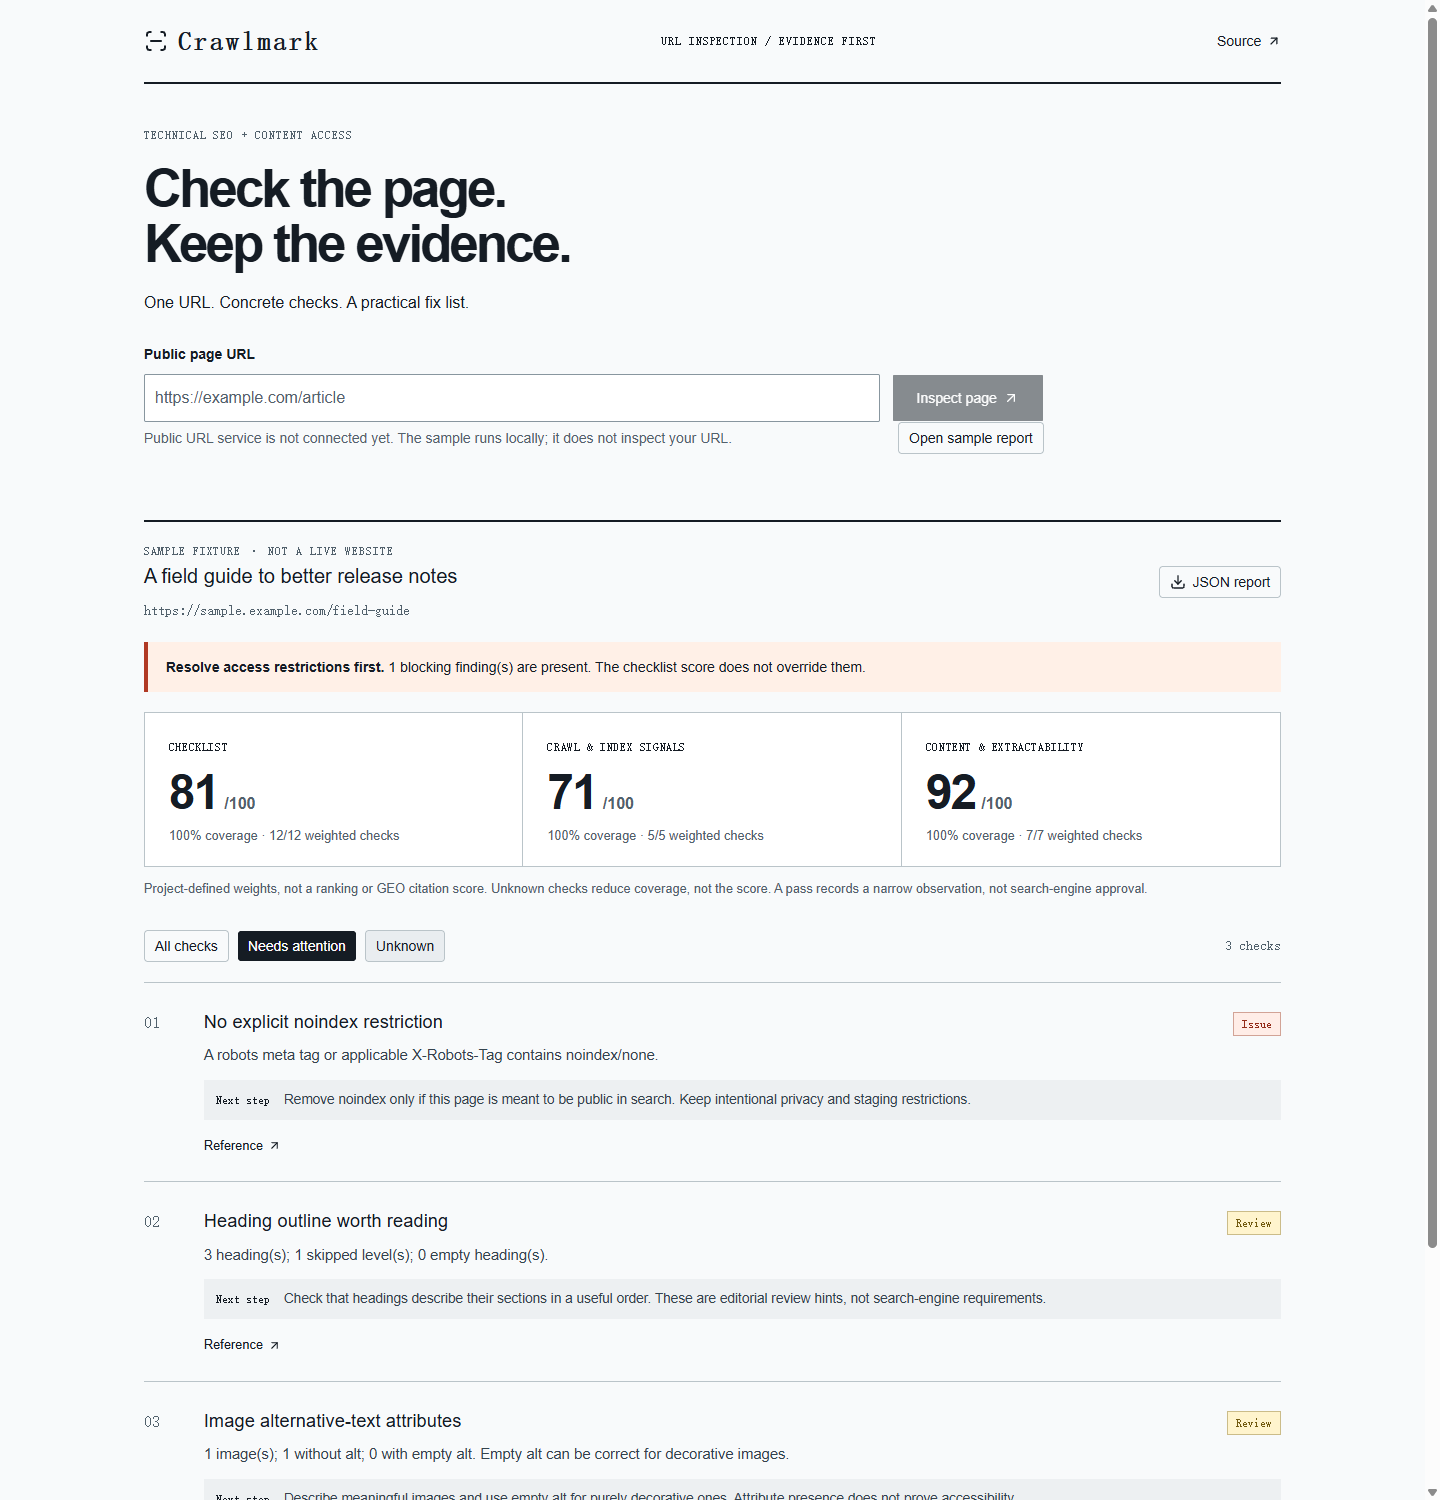
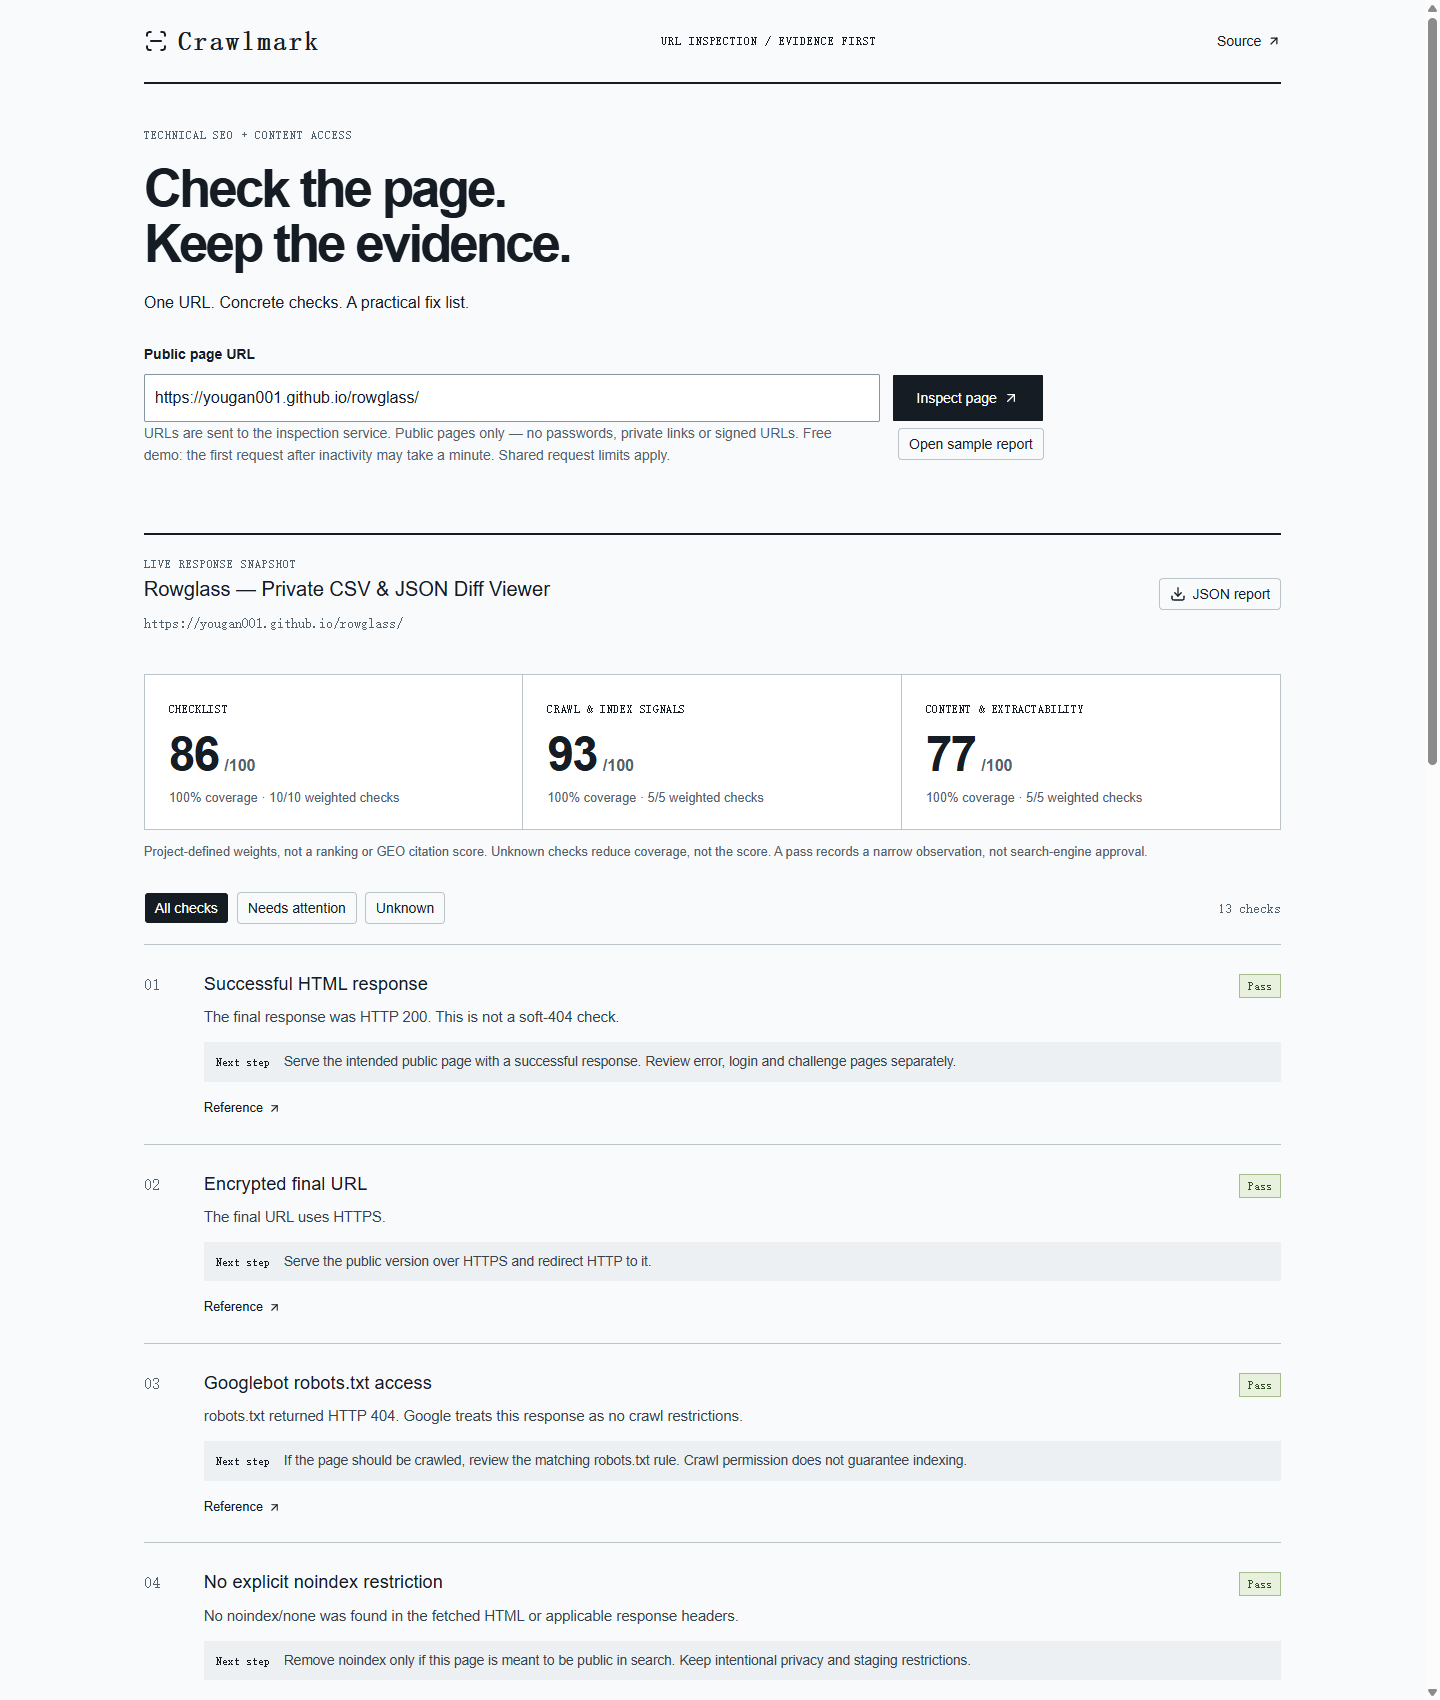
Document live deployment and refresh verified screenshots

diff --git a/docs/testing.md b/docs/testing.md
@@ -1,6 +1,6 @@
 # Verification
 
-Run `npm ci` then `npm test` on Node 22.13+. Tests need no external website or credentials. The suite has 37 tests for parsing, robots, scoring, transport policy, streamed bounds, concurrency, sample, worker and loopback API. External DNS and outbound response streams are controlled in transport tests; the API and worker run for real.
+Run `npm ci` then `npm test` on Node 22.13+. Tests need no external website or credentials. The suite has 43 tests for parsing, robots, scoring, transport policy, streamed bounds, concurrency, sample, worker, browser-client errors and loopback API. External DNS and outbound response streams are controlled in transport tests; the API and worker run for real.
 
 Request-body regression tests use real loopback connections with a shortened operation deadline. Two continuously trickling bodies must close and free both inspection slots, for both Content-Length and chunked uploads; a subsequent normal request must succeed. Separate cases cover client disconnection during upload and a structured timeout after a complete body. The inspection function is controlled, so these tests make no outbound requests.
 
@@ -15,6 +15,14 @@ Additional browser checks:
 - A genuine 390px viewport has a 390px document width, without horizontal overflow. Desktop and mobile PNGs in `docs/images/` were captured and inspected from the real local page.
 - Lint, TypeScript and the ordinary Windows static build pass. The Windows Pages-mode build exited 1 during client output without a diagnostic; it is not considered successful. Linux Pages CI is the release gate for the prefixed build.
 
-Public API hosting is not configured yet. The static preview explicitly labels its sample and disables live inspection without an endpoint. Passing tests do not replace network isolation or deployment review.
+The public demo now connects to an HTTPS Node API on Render. The static build still disables live inspection when no endpoint is configured, and its local sample remains explicitly labeled. Passing tests do not replace network isolation or deployment review.
 
-Public deployment verified on 2026-09-05: Linux inspection tests and Pages build/deployment passed for `144557b`. The public `/crawlmark/` page loads its sample worker, reports score 81 with a noindex blocker, and filters to three attention findings. Canonical and favicon paths use the correct project prefix. Screenshots were then refreshed from this public preview. The real-URL control is visibly disabled with an explanation while no hosted API is configured.
+Initial sample-only deployment was verified on 2026-09-05 at `144557b`: the public `/crawlmark/` page loaded its sample worker, reported score 81 with a noindex blocker, and filtered to three attention findings. Canonical and favicon paths used the correct project prefix.
+
+Live deployment was verified later the same day at frontend `484be37`, using the Node backend at `4b8b397`. GitHub tests, lint, typecheck, Pages build and deployment passed. The public URL form fetched `https://yougan001.github.io/rowglass/` through Render and displayed its actual title, a live-response label, 13 findings and score 86. One warm browser request took about 4.7 seconds; this is not a performance guarantee. Direct cross-origin health and inspection requests also succeeded, and a loopback target returned `BLOCKED_ADDRESS`.
+
+The desktop and 390px mobile screenshots now show that live report. The mobile document width equals the 390px viewport. Needs-attention filtering reduces the visible list to three findings; the actual downloaded JSON still contains all 13 checks, the live URL, title and score 86.
+
+The deployed form also rejected a loopback target with HTTP 400 and a readable private-address message, with no stale report. An earlier attempt encountered a transient network failure and displayed the retry message; the subsequent health request succeeded. Cancelling a real submission triggered `AbortError`, restored the controls and kept the cancellation message without an old report reappearing.
+
+Client regression tests cover startup HTML instead of JSON, malformed responses, network failures, cancellation and rate limits without automatic POST retries. A full idle-to-cold-start timing measurement has not been performed; startup behavior is described using the hosting provider's documented limits, not a claimed benchmark.

diff --git a/docs/deployment.md b/docs/deployment.md
@@ -1,0 +1,40 @@
+# Hosting the inspection service
+
+The public demo uses GitHub Pages for the interface and a Render Node web service for URL inspection. The static page does not fetch arbitrary sites itself, and no third-party CORS proxy is involved.
+
+## Render setup
+
+Create a Web Service from this public repository. A public-repository connection does not require access to other GitHub repositories. Use:
+
+| Setting | Value |
+| --- | --- |
+| Runtime | Node |
+| Build command | `npm ci --ignore-scripts && npm test` |
+| Start command | `ALLOWED_HOSTS="$RENDER_EXTERNAL_HOSTNAME" node server/index.mjs` |
+| Health check | `/health` |
+| `NODE_VERSION` | `22.23.2` |
+| `HOST` | `0.0.0.0` |
+| `ALLOWED_ORIGINS` | Your frontend origin, such as `https://yougan001.github.io` |
+
+The app uses Render's `PORT` and explicitly allows its generated hostname. Keep the DNS checks, address pinning, TLS verification and body/time limits intact. Do not add credentials, database access or private services to the demo environment. Read [security.md](security.md) before exposing any self-hosted instance.
+
+For a public-repository connection, verify the service's update behavior instead of assuming that a GitHub push deploys the API. The Render dashboard offers **Manual Deploy → Deploy latest commit**. Check the deployed commit and health before connecting the frontend.
+
+## GitHub Pages setup
+
+Set these repository Actions variables, then run the included Pages workflow:
+
+| Variable | Value |
+| --- | --- |
+| `VITE_INSPECTION_API` | Full HTTPS endpoint, ending in `/api/inspect` |
+| `VITE_INSPECTION_DEMO` | `true` for the free demo's startup notice and 90-second browser wait |
+
+These are public build settings, not secrets. Never put an API credential in a `VITE_` variable. Without an endpoint the page disables URL inspection and keeps its local sample available. The backend operation remains limited to 25 seconds; the longer browser wait allows for hosting startup before the request reaches the app.
+
+## Free demo limits
+
+The current demo runs on Render's Free compute plan in Singapore. It is a demonstration, not an always-on production service. Render can put it to sleep after inactivity; its [free-instance documentation](https://render.com/docs/free) describes startup delays, resource limits and traffic restrictions. No keep-alive job is configured.
+
+The app allows two concurrent inspections, 20 requests per minute per process, and six requests per ten minutes per directly connected IP. Behind Render's proxy, multiple visitors may share that last allowance. The demo deliberately does not trust client-supplied forwarding headers to increase capacity. The interface displays a shared-limit notice; wait when it returns 429, or self-host for sustained use.
+
+The application stores no report history. Submitted URLs and reports still pass through the hosting network, which can have its own logs. Submit only public, unsigned URLs. HTTPS and application validation do not replace network isolation or a production security review.

diff --git a/README.md b/README.md
@@ -2,11 +2,11 @@
 
 A small URL inspection service for technical SEO and content-access reviews. Get evidence, a transparent checklist score and a fix list from one public page — without pretending to know its ranking or citation probability.
 
-**Current stage:** the engine, Node API and browser interface are available. The [Pages preview](https://yougan001.github.io/crawlmark/) runs an explicitly labeled sample. A public hosted API is not connected yet; real URL inspection works with the local/self-hosted API. GitHub Pages cannot run the URL-fetching backend.
+**[Try the live demo](https://yougan001.github.io/crawlmark/)** — enter a public URL for a real inspection, or open the local sample. The interface is hosted on GitHub Pages; a separate Node service performs the inspection. The free demo can take about a minute to wake up and has shared request limits. For sustained use, run your own instance.
 
-![Crawlmark sample report with a noindex blocker and concrete review steps](docs/images/workspace.png)
+![Crawlmark inspecting a public Rowglass page and showing evidence-backed findings](docs/images/workspace.png)
 
-The screenshot is from the public Pages preview. The sample is evaluated by the same report engine; it is not a live fetch of the example domain.
+The screenshot shows a real URL inspection through the public demo. The separate sample is explicitly labeled and evaluated locally by the same report engine.
 
 ## What it inspects
 
@@ -52,7 +52,7 @@ npm run dev -- --port 5184
 
 Open `http://localhost:5184`. The development server proxies `/api/inspect` to the loopback Node service. Use the URL form for a real inspection, or open the local sample. Findings can be filtered to issues/reviews or unknown checks; JSON export contains the complete report regardless of the current filter.
 
-For a production static build, set `VITE_INSPECTION_API` to the full HTTPS inspection endpoint before `npm run build`. The backend must allow the frontend origin. Without it, the URL button stays disabled and the page clearly says only the sample is available. Set `GITHUB_PAGES=true` for the `/crawlmark/` base path. The included Pages workflow intentionally does not pretend to host an API.
+For a production static build, set `VITE_INSPECTION_API` to the full HTTPS inspection endpoint before `npm run build`. The backend must allow the frontend origin. Without it, the URL button stays disabled and the page clearly says only the sample is available. Set `GITHUB_PAGES=true` for the `/crawlmark/` base path. The included Pages workflow reads its endpoint from repository Actions variables; it does not host the API. See [deployment.md](docs/deployment.md) for Render setup, cold starts and the demo's shared limits.
 
 `core/` contains deterministic report logic. `server/` owns networking, quotas and disposable parser workers. `app/` is the report desk, and `workers/` analyzes the sample locally. `tests/` contains policy, streaming and API regressions.
 
